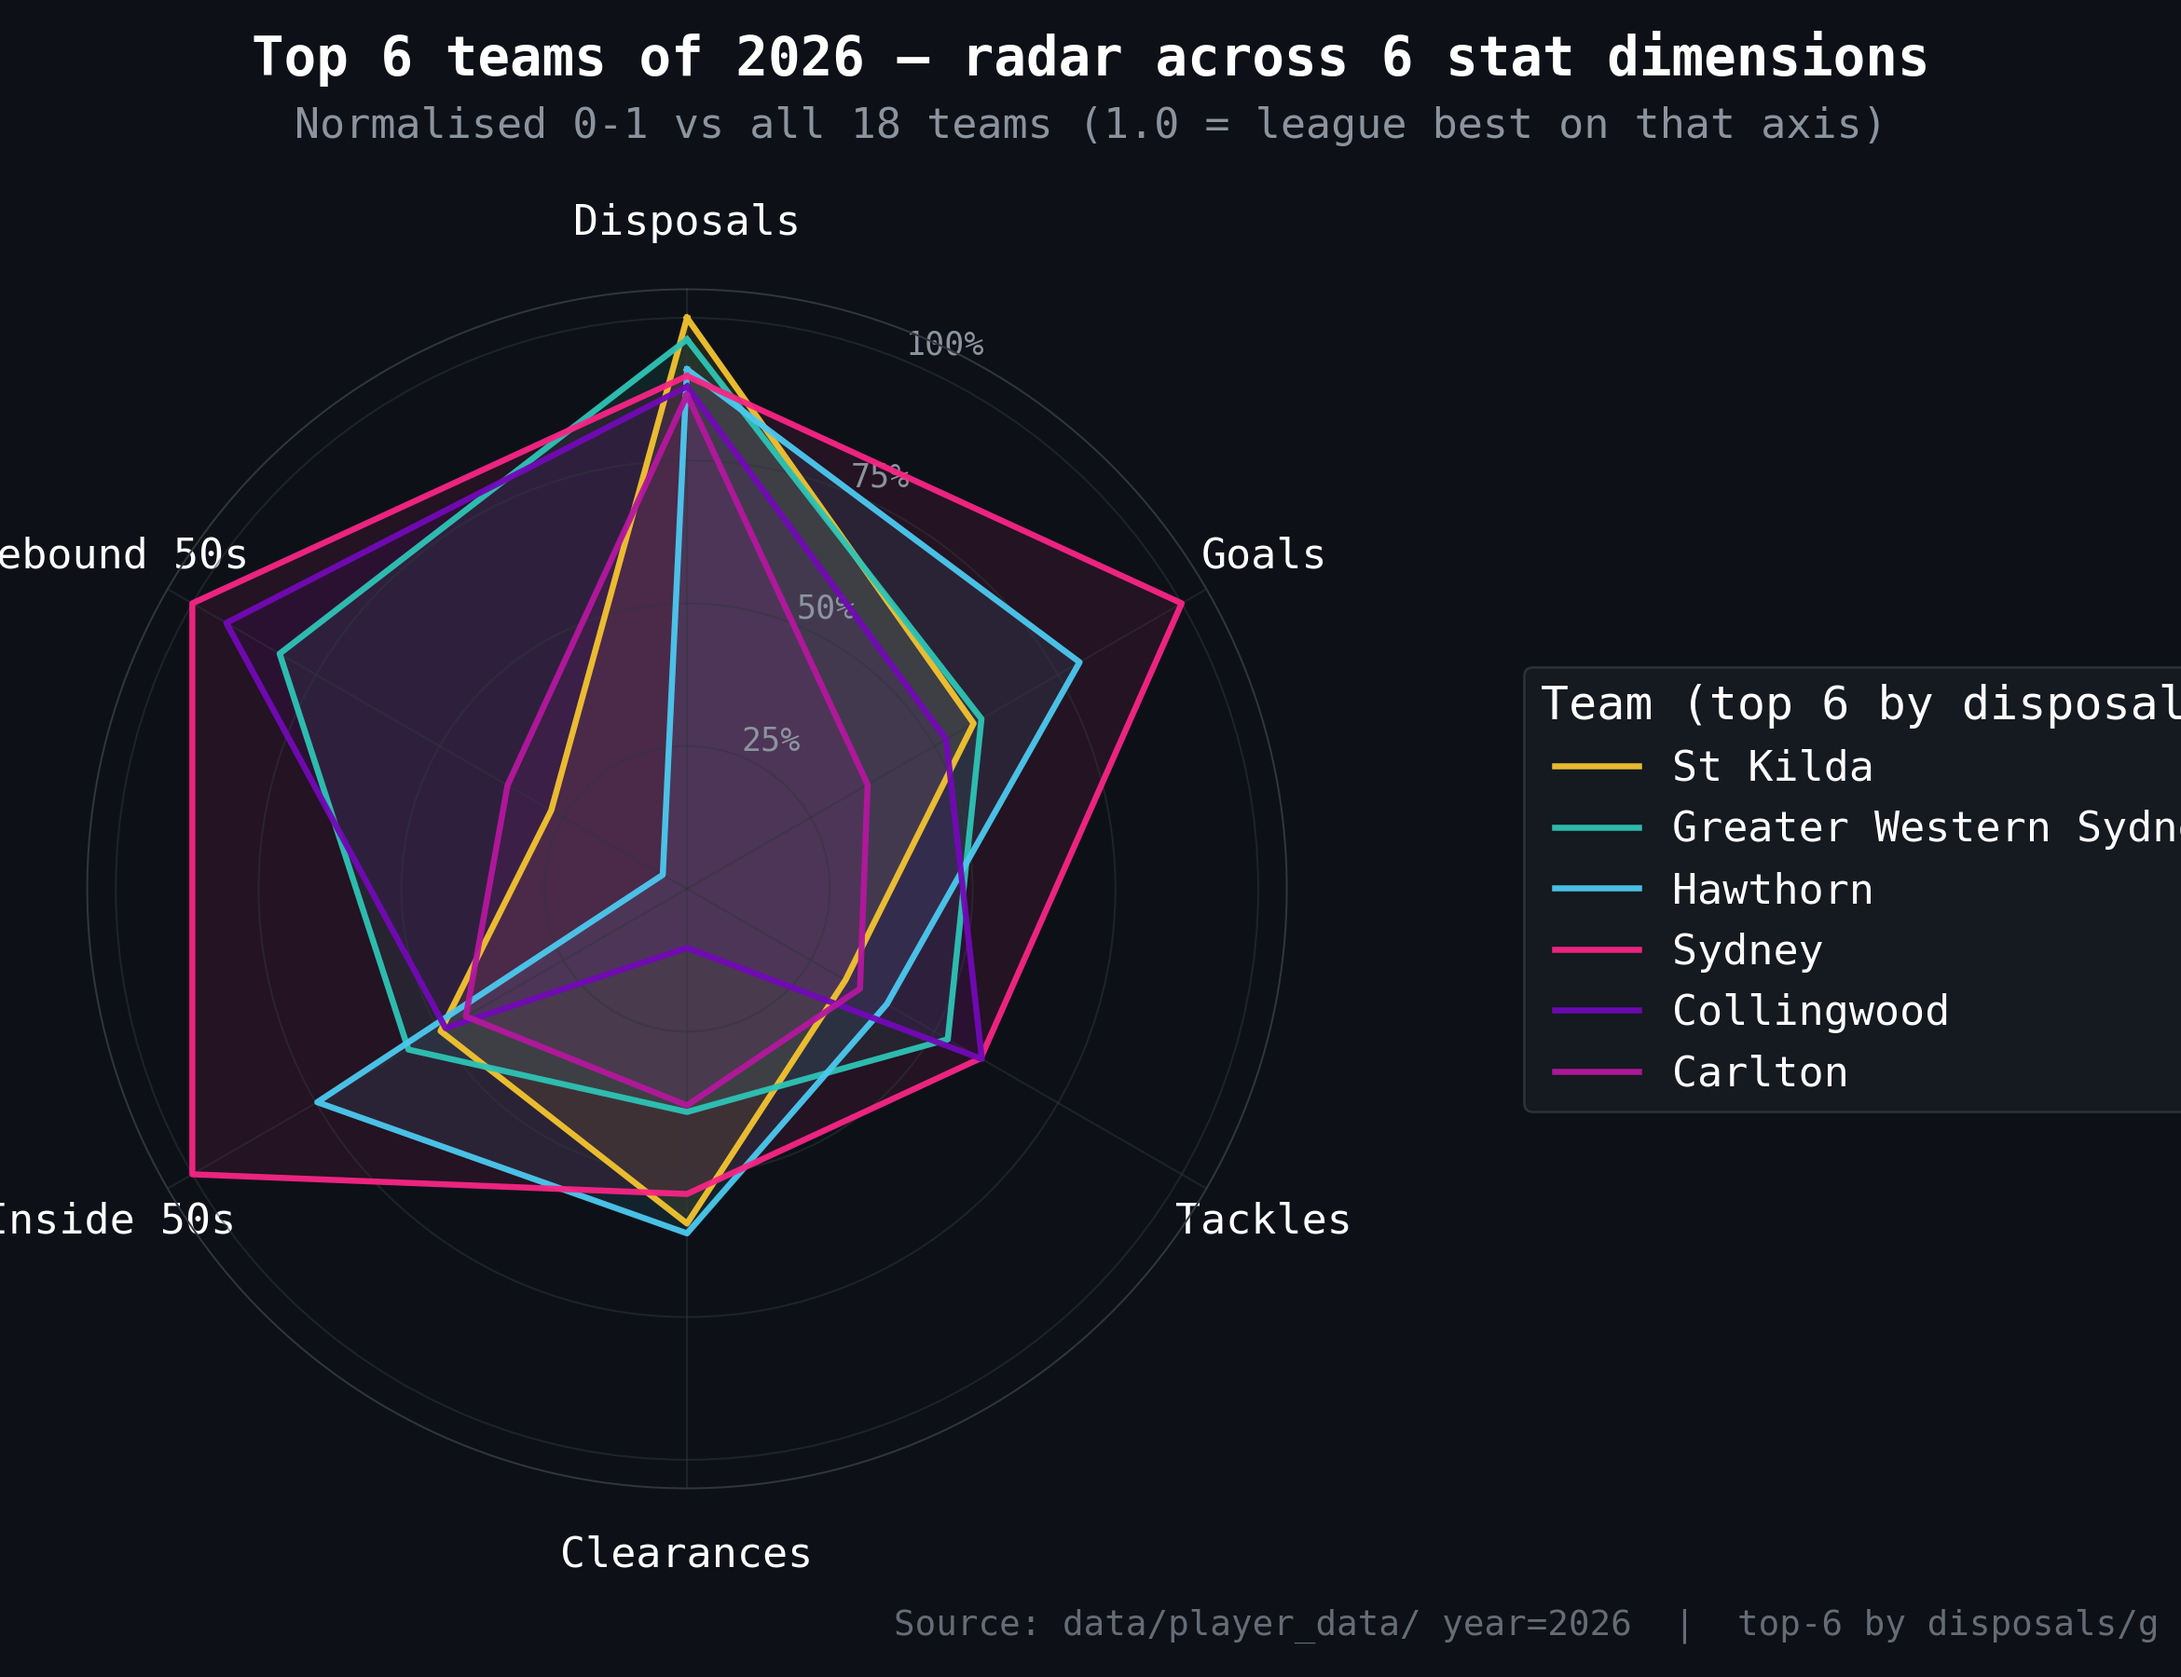
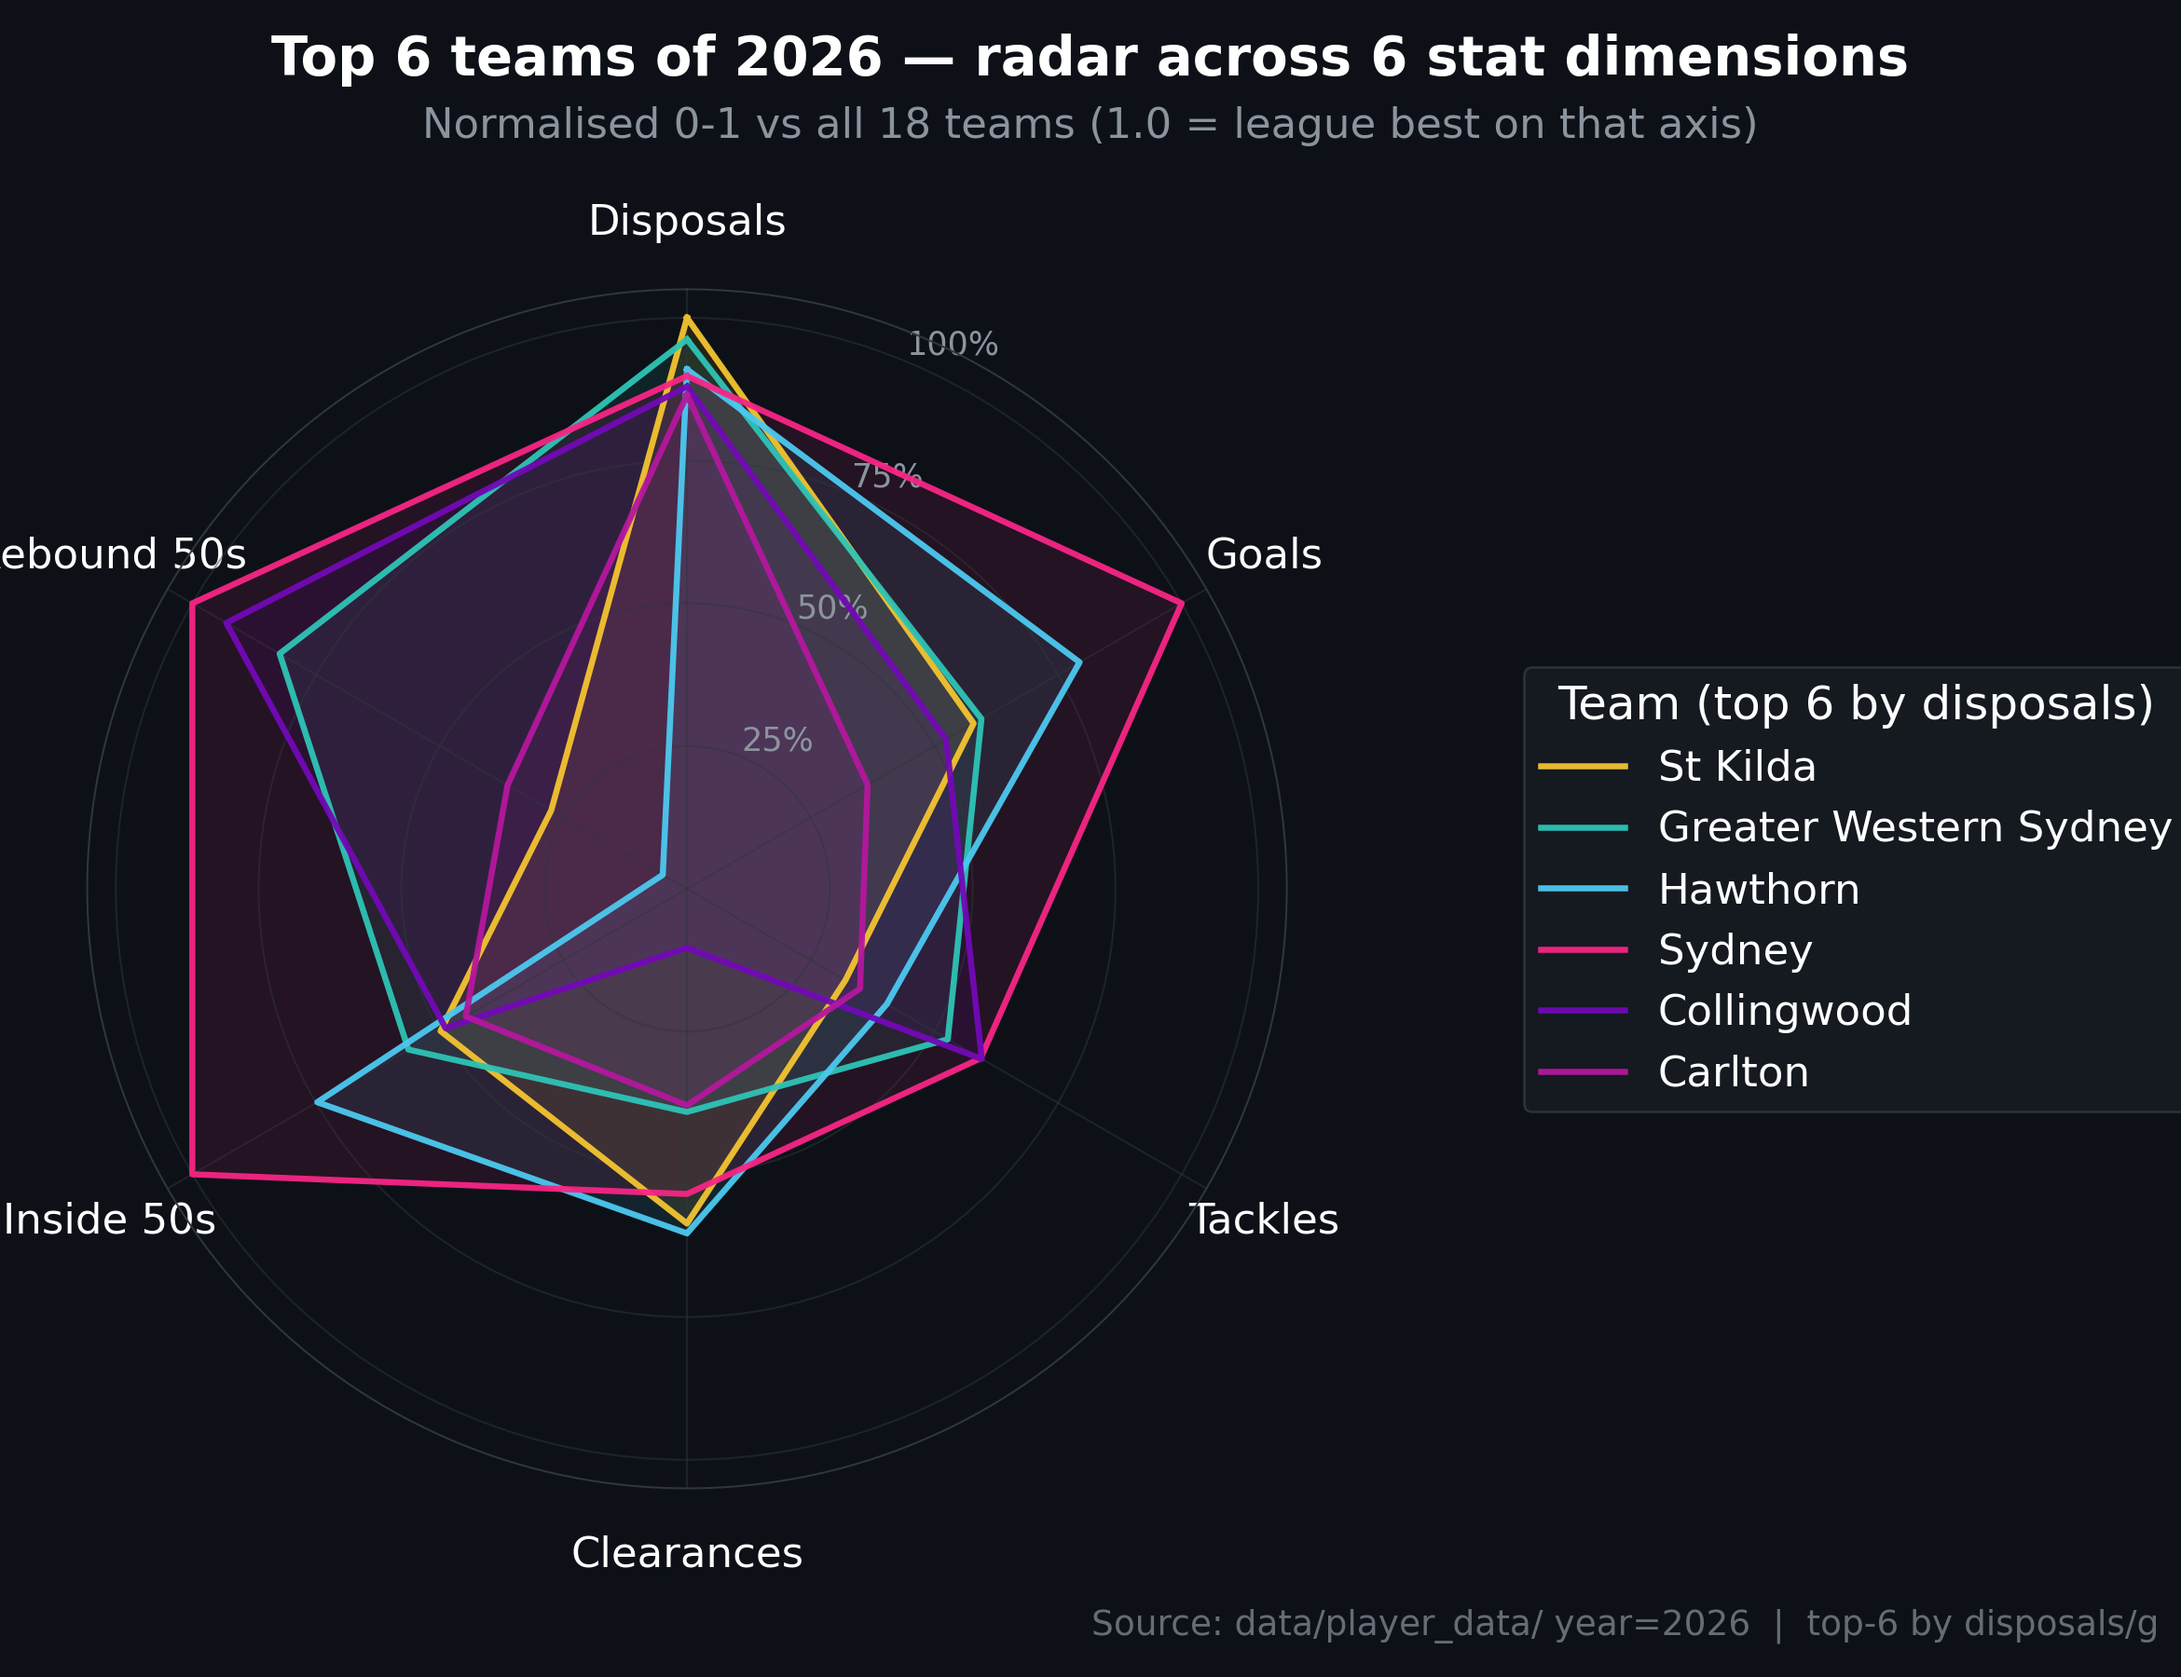
BL-04: refresh committed charts so they reproduce, and pin that with a guard
Seven committed chart PNGs no longer reproduced from current code. The committed
blobs were rendered under an older matplotlib/font build, so every agent that ran
a doc regeneration dirtied assets/ as a side effect and had to remember to revert
it — and a real chart change was indistinguishable from rendering noise in a diff.

Measured before changing anything, because the fix depends on which it is:

  * Regeneration is DETERMINISTIC in this environment — all seven produce identical
    bytes across repeated runs.
  * The drift is RENDERING, not content. The all-time top-10 behind
    top10_alltime_hall.png is byte-identical to the commit that produced the
    current blob (2026-06-22): same players, same values, no field changed. So
    nothing published was ever wrong; the cost was purely operational.

Refreshed all seven so committed == regenerated. Doc regeneration now leaves
assets/ clean, which removes the revert-the-side-effect step agents kept hitting.

Guarded by tests/integration/test_chart_reproducibility.py, which renders into a
tmp directory rather than assets/ — the check does not commit the sin it polices —
and asserts the committed chart matches what the code produces. Red first against
the pre-refresh tree (691acd8f vs committed 02e97b9d), green after. It uses the
top-100 chart as the canary because its inputs change rarely, so a byte difference
there is almost always the renderer rather than the data.
[…]

diff --git a/tests/integration/test_chart_reproducibility.py b/tests/integration/test_chart_reproducibility.py
@@ -1,0 +1,59 @@
+"""Committed chart PNGs must reproduce byte-identically from the current code.
+
+BL-04. `assets/charts/top10_alltime_hall.png` regenerated deterministically in this
+environment but differed from the committed blob (174,837 vs 175,862 bytes) — the
+committed version having been produced under a different matplotlib/font build. The
+underlying data was identical, so nothing published was WRONG; the cost was
+operational. Every agent that ran a doc regeneration dirtied `assets/` as a side
+effect and had to remember to revert it, and a real chart change was indistinguishable
+from rendering noise in a diff.
+
+This asserts the committed artifact matches what the code produces now. It renders into
+a tmp directory rather than `assets/`, so the check itself has no side effect — the
+thing it is policing.
+
+When a matplotlib/font upgrade lands this test SHOULD fail: that is the signal to
+refresh the committed charts deliberately, rather than discovering the drift as
+unexplained churn in someone else's diff.
+"""
+import hashlib
+import os
+import sys
+
+import pytest
+
+_REPO_ROOT = os.path.abspath(os.path.join(os.path.dirname(__file__), "..", ".."))
+if _REPO_ROOT not in sys.path:
+    sys.path.insert(0, _REPO_ROOT)
+
+pytestmark = pytest.mark.integration
+
+COMMITTED = os.path.join(_REPO_ROOT, "assets", "charts", "top10_alltime_hall.png")
+
+
+def _md5(path):
+    with open(path, "rb") as f:
+        return hashlib.md5(f.read()).hexdigest()
+
+
+def test_top100_chart_reproduces_byte_identically(tmp_path, monkeypatch):
+    """Canary for rendering drift, on the chart BL-04 named.
+
+    Chosen because its inputs are the all-time top-10, which change rarely — so a
+    byte difference here is almost always the renderer, not the data.
+    """
+    import update_team_analysis as uta
+
+    assert os.path.exists(COMMITTED), f"committed chart missing: {COMMITTED}"
+
+    monkeypatch.setattr(uta, "CHARTS_DIR", str(tmp_path))
+    produced = uta.generate_top100_chart()
+
+    assert os.path.dirname(os.path.abspath(produced)) == str(tmp_path), (
+        "chart generation escaped the tmp directory and wrote into the repo"
+    )
+    assert _md5(produced) == _md5(COMMITTED), (
+        "the committed chart no longer reproduces from current code — most likely a "
+        "matplotlib/font upgrade. Regenerate and commit the charts deliberately "
+        "(BL-04), rather than leaving every doc regeneration to dirty assets/."
+    )

diff --git a/docs/pending-tasks.md b/docs/pending-tasks.md
@@ -348,7 +348,7 @@ Cleanup recipe already written at `docs/experiment-log.md:330`.
 **Acceptance criterion:** zero rows in `data/lineups/` match the jersey-number/junk-token shape,
 with a validator in the integration tier so the shape cannot return.
 
-### [Backlog] BL-04 — Committed chart PNGs no longer reproduce byte-identically
+### [Backlog] BL-04 — Committed chart PNGs no longer reproduce byte-identically — **DONE 2026-07-28**
 **Owner:** Scientist
 **Depends on:** none
 **Blocked by decision:** none
